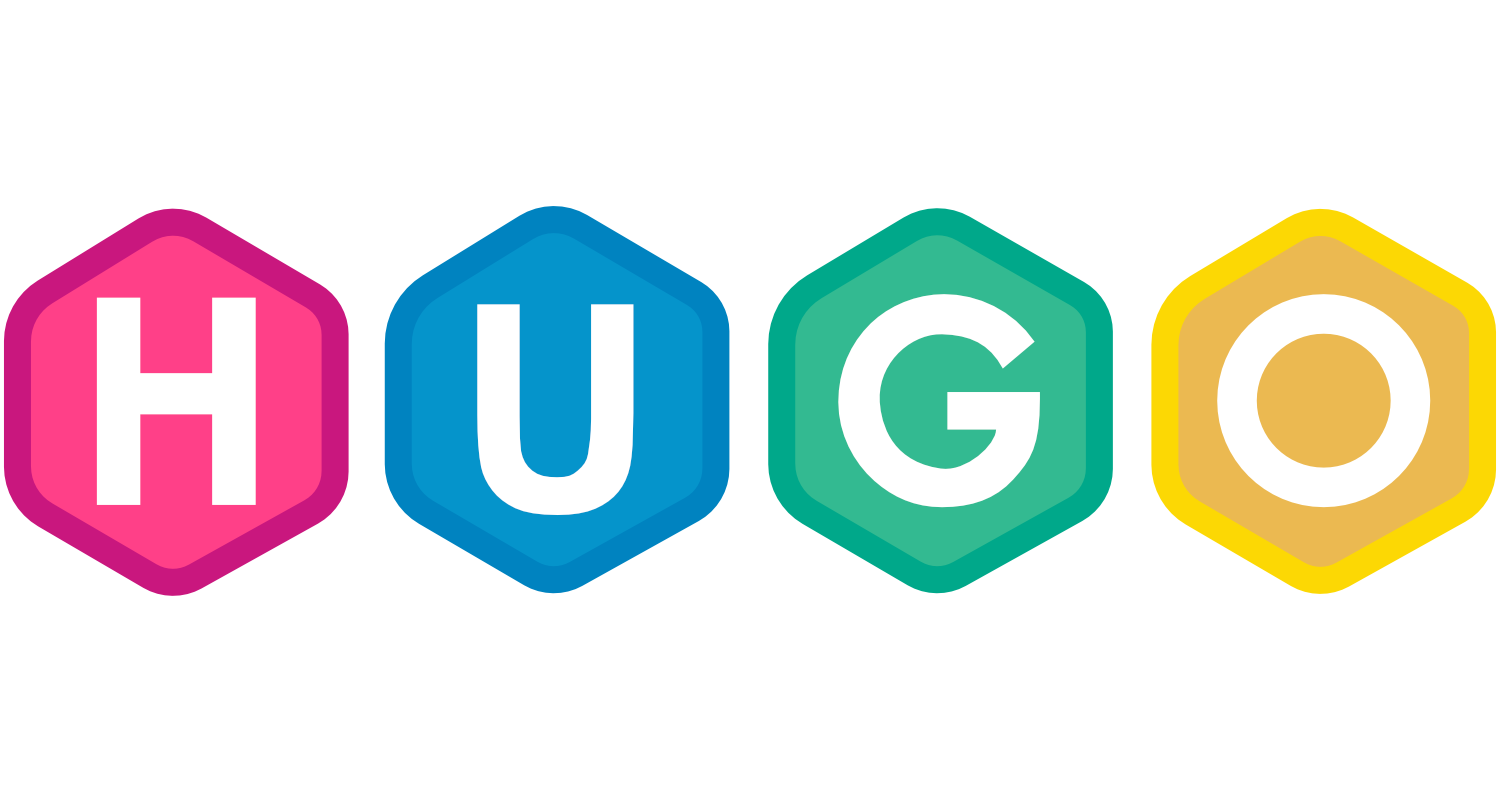
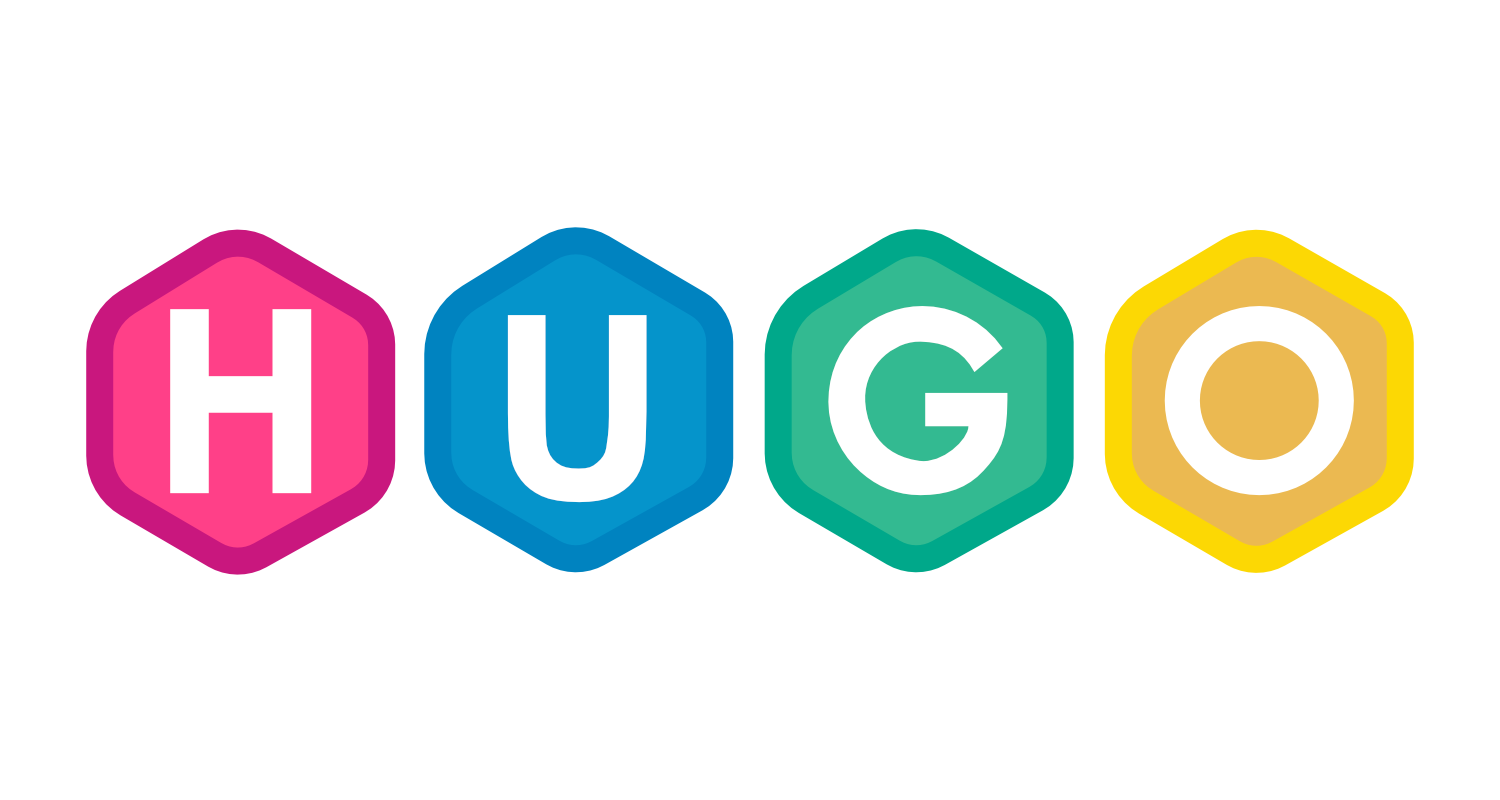
Update with homepage description & smaller default social image

diff --git a/content/_index.md b/content/_index.md
@@ -1,7 +1,7 @@
 ---
 title: Hugo
 linktitle: Hugo
-description:
+description: Hugo is the world's fastest static website engine. It's written in Golang and developed by spf13 and friends.
 date: 2017-02-01
 publishdate: 2017-02-01
 lastmod: 2017-02-01
